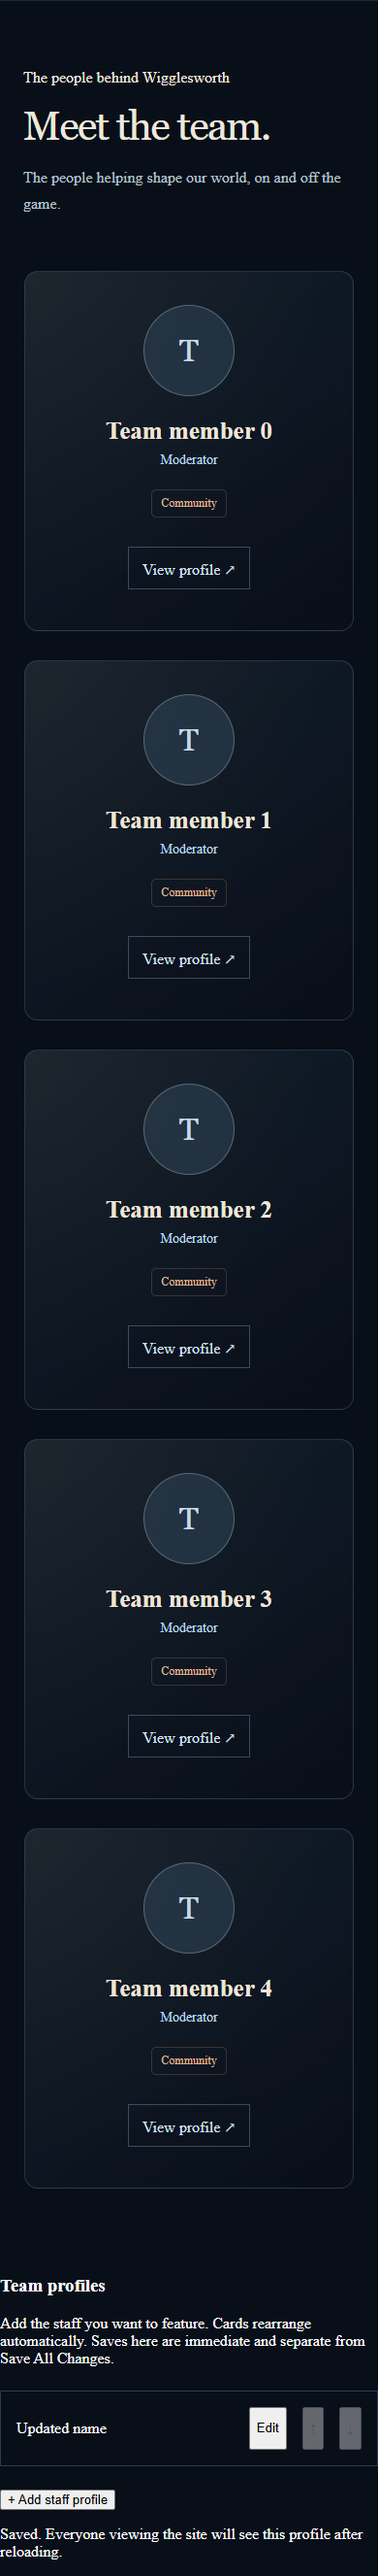
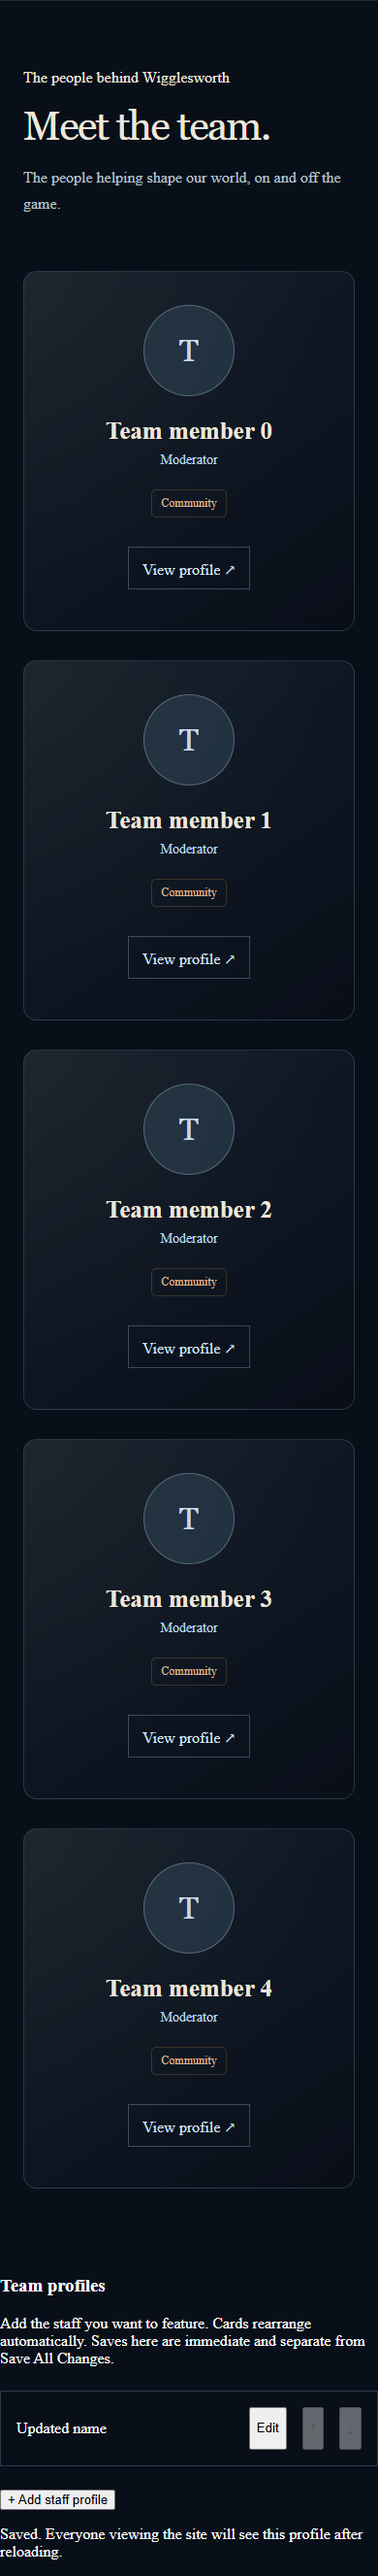
Add per-person large staff card option

diff --git a/public/staff-profiles.js b/public/staff-profiles.js
@@ -9,6 +9,7 @@ window.StaffProfiles = (() => {
     section.hidden = !members.length; grid.replaceChildren();
     members.forEach(p => {
       const card = node('article', '', 'team-card');
+      if(p.cardSize === 'large') card.classList.add('team-card-large');
       if(p.featured) { card.classList.add('team-featured'); card.style.setProperty('--team-glow', /^#[0-9a-f]{6}$/i.test(p.glowColor || '') ? p.glowColor : '#99d8f5'); }
       if (p.photo) { const img = node('img', '', 'team-avatar'); img.src = p.photo; img.alt = ''; img.loading = 'lazy'; img.width = 92; img.height = 92; card.append(img); }
       else card.append(node('span', p.name.slice(0, 1).toUpperCase(), 'team-avatar'));
@@ -73,7 +74,7 @@ window.StaffProfiles = (() => {
   function editProfile(p = {}) {
     editing = p.id || 'new'; const form = byId('teamEditForm'); form.hidden = false;
     for (const key of ['name','role','bio','photo','details']) byId('team_'+key).value = p[key] || '';
-    byId('team_featured').checked=!!p.featured;byId('team_glowColor').value=p.glowColor || '#99d8f5';
+    byId('team_cardSize').value=p.cardSize || 'standard';byId('team_featured').checked=!!p.featured;byId('team_glowColor').value=p.glowColor || '#99d8f5';
     byId('team_visible').checked = p.visible !== false;
     badgeDraft = (p.badges || []).map(b => ({...b})); badgeEditor();
     byId('team_socials').value = (p.socials || []).map(s => s.label + ' | ' + s.url).join('\n');
@@ -92,7 +93,7 @@ window.StaffProfiles = (() => {
       if (badgeDraft.some(b=>!b.label.trim())) throw Error('Give each badge a name, or remove the empty badge.');
       const p = { visible: byId('team_visible').checked, badges: badgeDraft.map(b=>({...b})), socials: socials() };
       for (const key of ['name','role','bio','photo','details']) p[key] = byId('team_'+key).value.trim();
-      p.featured=byId('team_featured').checked;p.glowColor=byId('team_glowColor').value;
+      p.cardSize=byId('team_cardSize').value;p.featured=byId('team_featured').checked;p.glowColor=byId('team_glowColor').value;
       if (new Blob([JSON.stringify(p)]).size > 190000) throw Error('These images are too large together. Use smaller badge images or HTTPS image links.');
       const r = await fetch('/api/admin/staff-profiles/'+encodeURIComponent(editing), {method:'PUT',headers:headers(),body:JSON.stringify(p)});
       const j = await r.json(); if (!r.ok) throw Error(j.error || 'Could not save.');

diff --git a/public/index.html b/public/index.html
@@ -581,7 +581,7 @@ input:focus,textarea:focus,select:focus{border-color:rgba(193,74,84,.78);box-sha
 <link rel="stylesheet" href="/cinema.css?v=20261113b">
 <script src="/cinema.js?v=campaign-20261113" defer></script>
 <link rel="stylesheet" href="/staff-workspace.css?v=20261113">
-<link rel="stylesheet" href="/staff-profiles.css?v=20261114c">
+<link rel="stylesheet" href="/staff-profiles.css?v=20261114d">
 <link rel="stylesheet" href="/atmosphere.css?v=20261113">
 <link rel="stylesheet" href="/campaign.css?v=world-reel-20261114">
 <link rel="stylesheet" href="/ambient.css?v=20261114">
@@ -1094,6 +1094,7 @@ setTimeout(function(){if(!window.__booted)window.__showFatal('Taking too long to
 <label for="team_name">Name</label><input id="team_name" maxlength="60" required>
 <label for="team_role">Role / title</label><input id="team_role" maxlength="80">
 <label for="team_bio">Short introduction</label><textarea id="team_bio" maxlength="240"></textarea>
+<label for="team_cardSize">Profile card size</label><select id="team_cardSize"><option value="standard">Standard</option><option value="large">Large — extra space and a bigger photo</option></select>
 <label for="team_details">Full profile — shown when visitors click this person</label><textarea id="team_details" maxlength="3000" rows="6"></textarea><label><input id="team_featured" type="checkbox"> Highlight this profile with a flowing glow</label><label for="team_glowColor">Glow color</label><input id="team_glowColor" type="color" value="#99d8f5">
 <label for="team_photo">Profile photo HTTPS URL (or upload below)</label><input id="team_photo">
 <label for="team_upload">Upload profile photo</label><input id="team_upload" type="file" accept="image/png,image/jpeg,image/webp" onchange="StaffProfiles.upload(event)">
@@ -1275,7 +1276,7 @@ setTimeout(function(){if(!window.__booted)window.__showFatal('Taking too long to
 </div>
 
 <script src="site-copy.js?v=20261025b"></script>
-<script src="/staff-profiles.js?v=20261114c"></script>
+<script src="/staff-profiles.js?v=20261114d"></script>
 <script src="app.js?v=campaign-20261114"></script>
 <script>
 function toggleNav(){

diff --git a/public/staff-profiles.css b/public/staff-profiles.css
@@ -14,3 +14,6 @@
 .team-more{display:inline-flex;align-items:center;justify-content:center;min-height:44px;padding:10px 14px;margin:8px 4px;border:1px solid #a1cce34d;background:transparent;color:#d0e5f0;font:inherit;text-decoration:none;cursor:pointer}.team-more:focus-visible{outline:2px solid #b4def3;outline-offset:3px}.team-card{cursor:pointer}.team-editor-row{flex-wrap:wrap}.team-editor-row>span{flex:1 1 160px}
 .team-detail{box-sizing:border-box;width:min(620px,calc(100vw - 32px));max-height:85dvh;overflow:auto;padding:32px;background:#0c1723;color:#eee8dc;border:1px solid #a1cce360;border-radius:14px}.team-detail::backdrop{background:#000b;backdrop-filter:blur(5px)}.team-detail h2{font:36px Georgia,serif;overflow-wrap:anywhere}.team-detail-copy{white-space:pre-wrap;overflow-wrap:anywhere;line-height:1.8;color:#c0cbd4}.team-detail>.team-more:first-child{display:flex;margin-left:auto}
 @media(prefers-reduced-motion:reduce){.team-card.team-featured:before{animation:none}}
+
+.team-section{container-type:inline-size}.team-grid{grid-template-columns:repeat(auto-fill,minmax(min(100%,265px),1fr));max-width:1150px;margin-inline:auto}.team-card-large{padding:46px 32px}.team-card-large .team-avatar{width:124px;height:124px}.team-card-large h3{font-size:32px}.team-card-large .team-bio{max-width:520px;margin-inline:auto}
+@container(min-width:600px){.team-card-large{grid-column:span 2}}

diff --git a/staff-profiles.js b/staff-profiles.js
@@ -21,7 +21,7 @@ function clean(value) {
     if (!link) throw new Error('Social links must use a complete HTTPS URL.');
     return { label: text(s.label, 30) || 'Website', url: link };
   });
-  return { name: text(value.name, 60), role: text(value.role, 80), bio: text(value.bio, 240), details: text(value.details, 3000), featured: value.featured === true, glowColor: /^#[0-9a-f]{6}$/i.test(value.glowColor || '') ? value.glowColor : '#99d8f5', photo, badges, socials, visible: value.visible !== false };
+  return { name: text(value.name, 60), role: text(value.role, 80), bio: text(value.bio, 240), details: text(value.details, 3000), featured: value.featured === true, cardSize: value.cardSize === 'large' ? 'large' : 'standard', glowColor: /^#[0-9a-f]{6}$/i.test(value.glowColor || '') ? value.glowColor : '#99d8f5', photo, badges, socials, visible: value.visible !== false };
 }
 function routes(app, { loadDB, saveDB, isAdmin, adminLimit, audit }) {
   app.post('/api/admin/staff-profile-order', adminLimit, (req, res) => {
